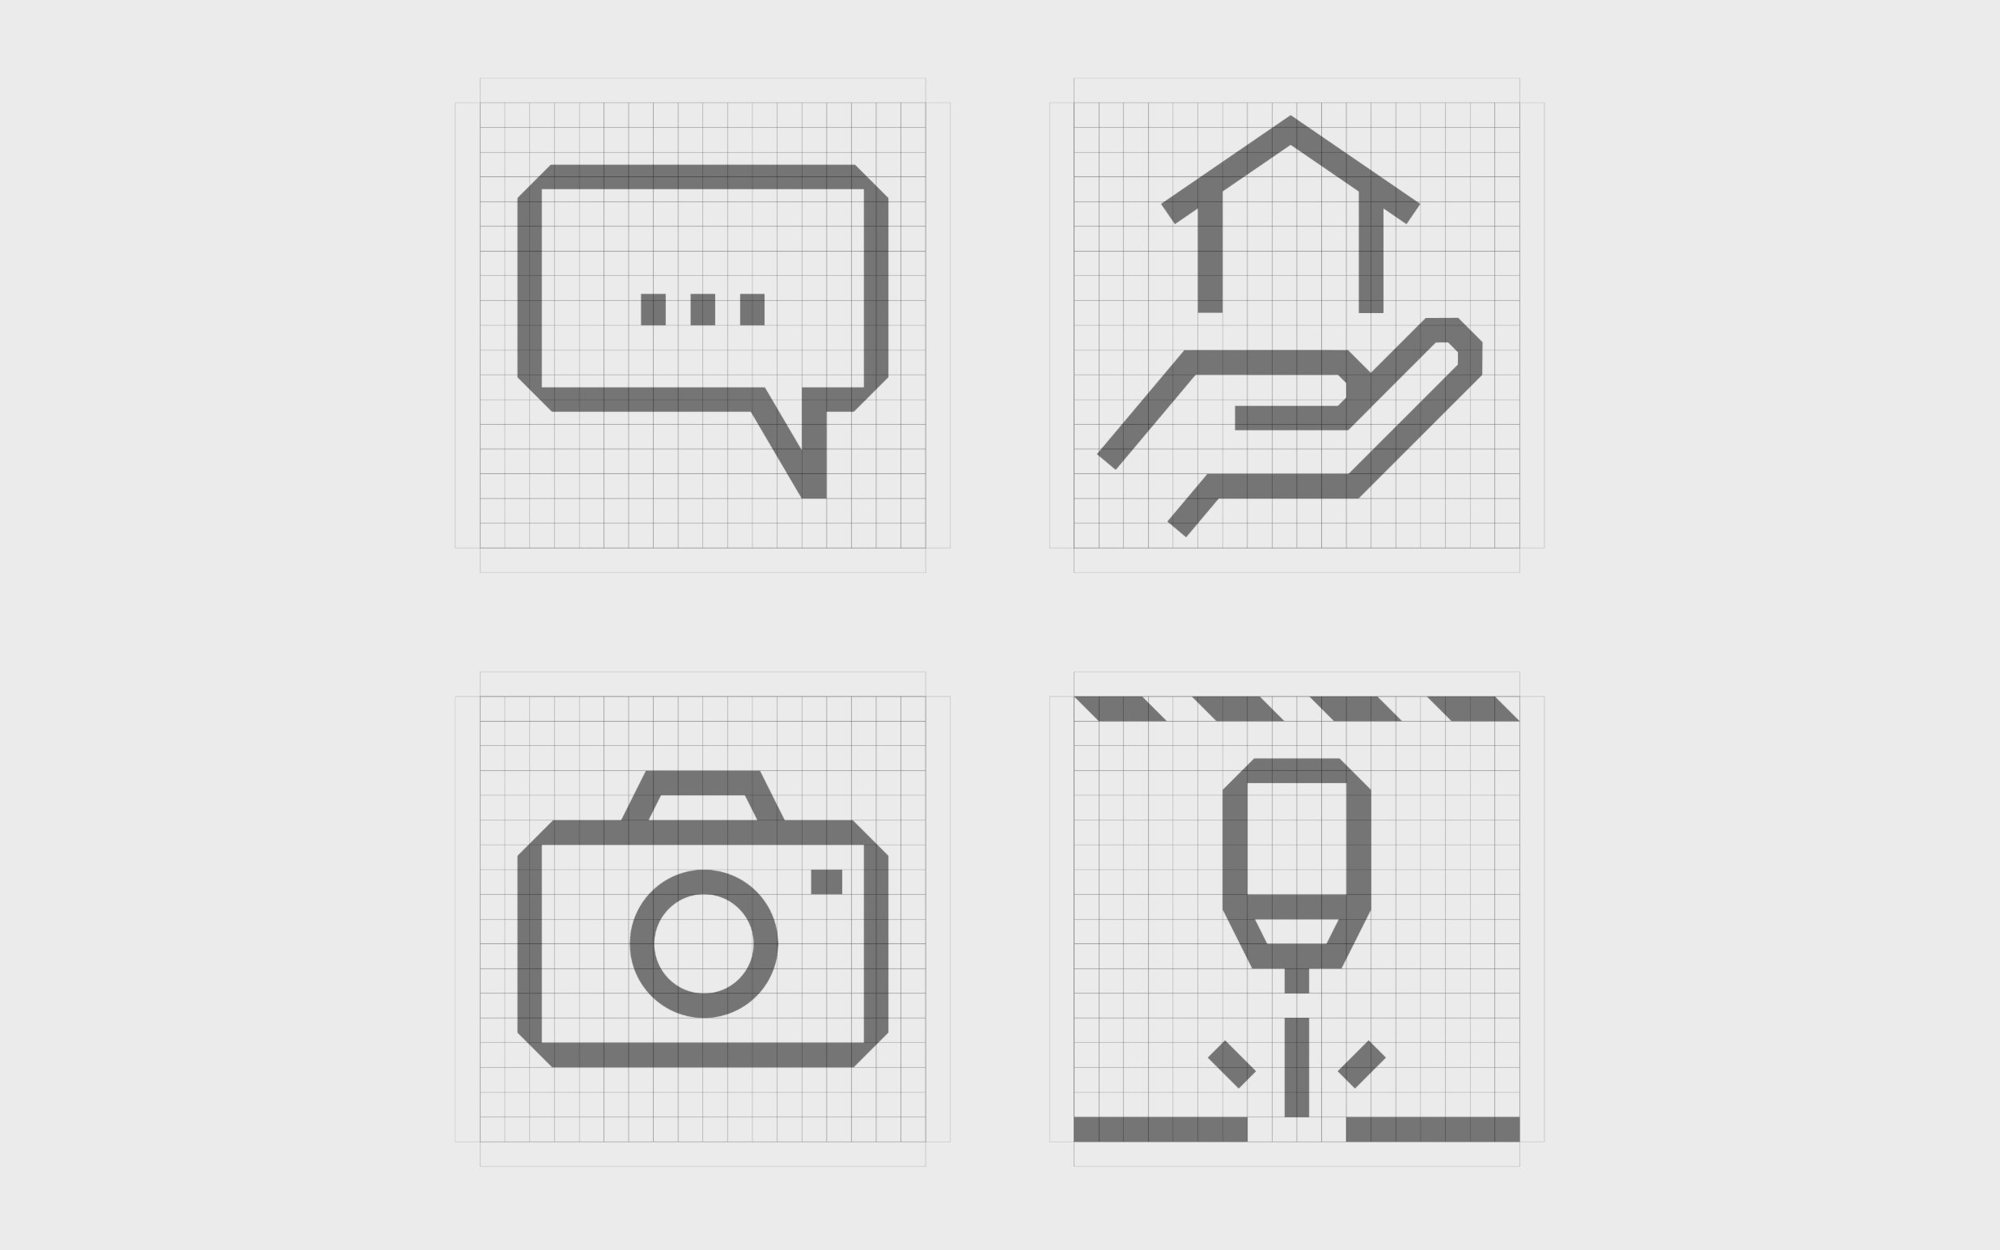
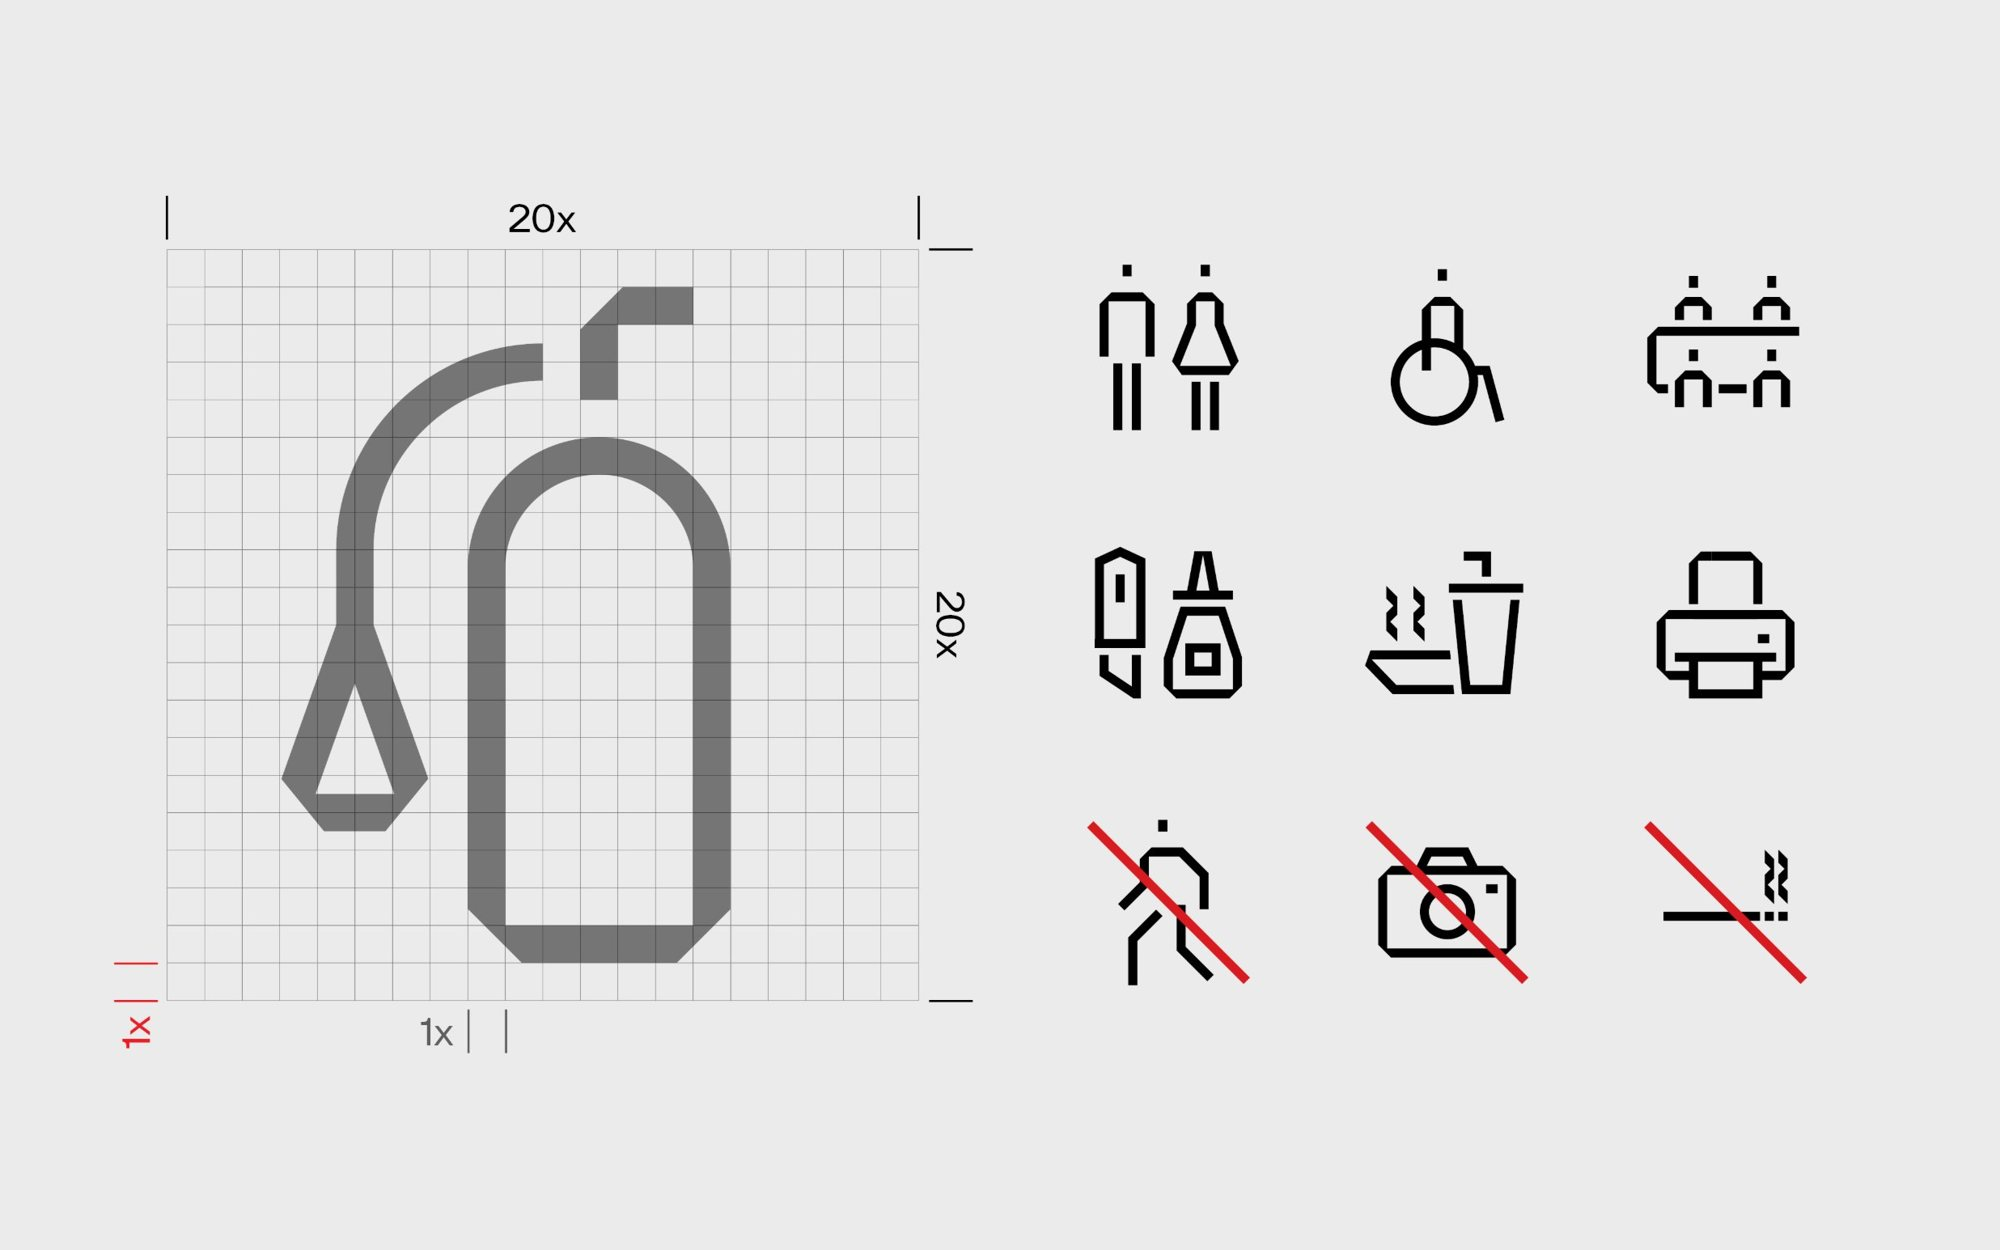
BHQ: restore grid drawing, remove extinguisher photo; add Pallet, Tyre, Iroko back
Claude-Session: https://claude.ai/code/session_01QFmfzVZUR4g7GbsELw1anY

diff --git a/index.html b/index.html
@@ -259,8 +259,8 @@ body.locked{overflow:hidden}
       <p>An iconography and signage system for BIG’s headquarters in Copenhagen, from the floor directory and door signs to the pictograms on them. One grid, one line weight: every icon belongs to the same family.</p>
       <p class="meta">Year: 2022<br>Studio: BIG</p>
     </div>
-    <div class="slides" data-count="9">
-      <button class="frame" type="button" aria-label="Enlarge BHQ Signage &amp; Wayfinding"><video src="img/bhq-signage-1.mp4" poster="img/bhq-signage-1.jpg" aria-label="BHQ Signage &amp; Wayfinding, image 1 of 9" muted loop playsinline preload="metadata"></video><img src="img/bhq-signage-2.jpg" alt="BHQ Signage &amp; Wayfinding, image 2 of 9" loading="lazy" decoding="async" hidden><img src="img/bhq-signage-3.jpg" alt="BHQ Signage &amp; Wayfinding, image 3 of 9" loading="lazy" decoding="async" hidden><img src="img/bhq-signage-4.jpg" alt="BHQ Signage &amp; Wayfinding, image 4 of 9" loading="lazy" decoding="async" hidden><img src="img/bhq-signage-5.jpg" alt="BHQ Signage &amp; Wayfinding, image 5 of 9" loading="lazy" decoding="async" hidden><img src="img/bhq-signage-6.jpg" alt="BHQ Signage &amp; Wayfinding, image 6 of 9" loading="lazy" decoding="async" hidden><img src="img/bhq-signage-7.jpg" alt="BHQ Signage &amp; Wayfinding, image 7 of 9" loading="lazy" decoding="async" hidden><img src="img/bhq-signage-8.jpg" alt="BHQ Signage &amp; Wayfinding, image 8 of 9" loading="lazy" decoding="async" hidden><img src="img/bhq-signage-9.jpg" alt="BHQ Signage &amp; Wayfinding, image 9 of 9" loading="lazy" decoding="async" hidden></button>
+    <div class="slides" data-count="8">
+      <button class="frame" type="button" aria-label="Enlarge BHQ Signage &amp; Wayfinding"><video src="img/bhq-signage-1.mp4" poster="img/bhq-signage-1.jpg" aria-label="BHQ Signage &amp; Wayfinding, image 1 of 8" muted loop playsinline preload="metadata"></video><img src="img/bhq-signage-2.jpg" alt="BHQ Signage &amp; Wayfinding, image 2 of 8" loading="lazy" decoding="async" hidden><img src="img/bhq-signage-3.jpg" alt="BHQ Signage &amp; Wayfinding, image 3 of 8" loading="lazy" decoding="async" hidden><img src="img/bhq-signage-4.jpg" alt="BHQ Signage &amp; Wayfinding, image 4 of 8" loading="lazy" decoding="async" hidden><img src="img/bhq-signage-5.jpg" alt="BHQ Signage &amp; Wayfinding, image 5 of 8" loading="lazy" decoding="async" hidden><img src="img/bhq-signage-6.jpg" alt="BHQ Signage &amp; Wayfinding, image 6 of 8" loading="lazy" decoding="async" hidden><img src="img/bhq-signage-7.jpg" alt="BHQ Signage &amp; Wayfinding, image 7 of 8" loading="lazy" decoding="async" hidden><img src="img/bhq-signage-8.jpg" alt="BHQ Signage &amp; Wayfinding, image 8 of 8" loading="lazy" decoding="async" hidden></button>
       <button class="prev" type="button" aria-label="Previous image"><svg viewBox="0 0 16 16"><path d="M15 8H1M6 3 1 8l5 5"/></svg></button>
       <button class="next" type="button" aria-label="Next image"><svg viewBox="0 0 16 16"><path d="M1 8h14M10 3l5 5-5 5"/></svg></button>
       <span class="enlarge" aria-hidden="true"><svg viewBox="0 0 16 16"><path d="M9 1h6v6M15 1 9 7M7 15H1V9M1 15l6-6"/></svg></span>    </div>
@@ -291,6 +291,21 @@ body.locked{overflow:hidden}
     </div>
     <div class="slides" data-count="13">
       <button class="frame" type="button" aria-label="Enlarge From the Arctic Edge to Ocean Bloom"><img src="img/arctic-edge-1.jpg" alt="From the Arctic Edge to Ocean Bloom, image 1 of 13" loading="lazy" decoding="async"><img src="img/arctic-edge-2.jpg" alt="From the Arctic Edge to Ocean Bloom, image 2 of 13" loading="lazy" decoding="async" hidden><img src="img/arctic-edge-3.jpg" alt="From the Arctic Edge to Ocean Bloom, image 3 of 13" loading="lazy" decoding="async" hidden><img src="img/arctic-edge-4.jpg" alt="From the Arctic Edge to Ocean Bloom, image 4 of 13" loading="lazy" decoding="async" hidden><img src="img/arctic-edge-5.jpg" alt="From the Arctic Edge to Ocean Bloom, image 5 of 13" loading="lazy" decoding="async" hidden><img src="img/arctic-edge-6.jpg" alt="From the Arctic Edge to Ocean Bloom, image 6 of 13" loading="lazy" decoding="async" hidden><img src="img/arctic-edge-7.jpg" alt="From the Arctic Edge to Ocean Bloom, image 7 of 13" loading="lazy" decoding="async" hidden><img src="img/arctic-edge-8.jpg" alt="From the Arctic Edge to Ocean Bloom, image 8 of 13" loading="lazy" decoding="async" hidden><img src="img/arctic-edge-9.jpg" alt="From the Arctic Edge to Ocean Bloom, image 9 of 13" loading="lazy" decoding="async" hidden><img src="img/arctic-edge-10.jpg" alt="From the Arctic Edge to Ocean Bloom, image 10 of 13" loading="lazy" decoding="async" hidden><img src="img/arctic-edge-11.jpg" alt="From the Arctic Edge to Ocean Bloom, image 11 of 13" loading="lazy" decoding="async" hidden><img src="img/arctic-edge-12.jpg" alt="From the Arctic Edge to Ocean Bloom, image 12 of 13" loading="lazy" decoding="async" hidden><img src="img/arctic-edge-13.jpg" alt="From the Arctic Edge to Ocean Bloom, image 13 of 13" loading="lazy" decoding="async" hidden></button>
+      <button class="prev" type="button" aria-label="Previous image"><svg viewBox="0 0 16 16"><path d="M15 8H1M6 3 1 8l5 5"/></svg></button>
+      <button class="next" type="button" aria-label="Next image"><svg viewBox="0 0 16 16"><path d="M1 8h14M10 3l5 5-5 5"/></svg></button>
+      <span class="enlarge" aria-hidden="true"><svg viewBox="0 0 16 16"><path d="M9 1h6v6M15 1 9 7M7 15H1V9M1 15l6-6"/></svg></span>    </div>
+  </article>
+  <article class="project" id="pallet-tyre-iroko" style="order:9">
+    <div class="head">
+      <h2><a href="#pallet-tyre-iroko">Pallet, Tyre, Iroko</a></h2>
+      <ul class="tags"><li>Editorial Design</li><li>Print Design</li><li>Project Documentation</li></ul>
+    </div>
+    <div class="body">
+      <p>Publication for a dwelling module in Makeni, Sierra Leone, built from freight pallets, used tyres and iroko. The original construction drawings are redrawn and set alongside the site, the climate and the assembly sequence.</p>
+      <p class="meta">Year: 2016<br>Context: Master’s thesis, San Pablo CEU</p>
+    </div>
+    <div class="slides" data-count="1">
+      <button class="frame" type="button" aria-label="Enlarge Pallet, Tyre, Iroko"><img src="img/pallet-tyre-iroko-1.jpg" alt="Pallet, Tyre, Iroko, image 1 of 1" loading="lazy" decoding="async"></button>
       <button class="prev" type="button" aria-label="Previous image"><svg viewBox="0 0 16 16"><path d="M15 8H1M6 3 1 8l5 5"/></svg></button>
       <button class="next" type="button" aria-label="Next image"><svg viewBox="0 0 16 16"><path d="M1 8h14M10 3l5 5-5 5"/></svg></button>
       <span class="enlarge" aria-hidden="true"><svg viewBox="0 0 16 16"><path d="M9 1h6v6M15 1 9 7M7 15H1V9M1 15l6-6"/></svg></span>    </div>

diff --git a/build.py b/build.py
@@ -19,7 +19,7 @@ PROJECTS = [
          year="2024", credit=("Studio", "BIG"), press=[('Dezeen', 'https://www.dezeen.com/2024/02/27/big-3-days-of-design-2024-visual-identity/'), ('IFDM', 'https://ifdm.design/2024/06/03/dedicated-to-dreamers/'), ('Interior Daily', 'https://www.interiordaily.com/article/9634851/3daysofdesign-2024-has-kicked-off-in-copenhagen/')], images=5),
     dict(slug="bhq-signage", title="BHQ Signage & Wayfinding", tags=["Signage & Wayfinding", "Icon Design"],
          text="An iconography and signage system for BIG’s headquarters in Copenhagen, from the floor directory and door signs to the pictograms on them. One grid, one line weight: every icon belongs to the same family.",
-         year="2022", credit=("Studio", "BIG"), images=9, videos=[1]),
+         year="2022", credit=("Studio", "BIG"), images=8, videos=[1]),
     dict(slug="formgiving-exhibition", title="Formgiving Exhibition", tags=["Visual Identity", "Print Design", "Exhibition Design"],
          text="Graphic design for BIG’s largest exhibition to date at the Danish Architecture Center in Copenhagen, including posters, flyers, and maps. The exhibition explored the evolution of life from the Big Bang to possible futures through a chronological journey.",
          year="2019", credit=("Studio", "BIG"), press=[('designboom', 'https://www.designboom.com/architecture/bjarke-ingels-group-formgiving-exhibition-copenhagen-06-12-2019/'), ('DAC', 'https://dac.dk/en/exhibitions/big-presents-formgiving'), ('Scandinavian Design', 'https://scandinaviandesign.com/explore-bigs-world-of-form-and-color-danish-architecture-centre/')], images=7),
@@ -35,6 +35,9 @@ PROJECTS = [
     dict(slug="park-residences", title="Park Residences", tags=["Editorial Design", "Print Design"],
          text="Sales dossier for Park Residences, two timber residential buildings by Proforma Studio set in an apricot orchard in Goght, near Garni, Armenia. The dossier moves from the orchard concept through the site and building to each apartment type, with the architects’ drawings redrawn as one consistent set.",
          year="2026", credit=("Context", "Proforma Studio"), images=8),
+    dict(slug="pallet-tyre-iroko", title="Pallet, Tyre, Iroko", tags=["Editorial Design", "Print Design", "Project Documentation"],
+         text="Publication for a dwelling module in Makeni, Sierra Leone, built from freight pallets, used tyres and iroko. The original construction drawings are redrawn and set alongside the site, the climate and the assembly sequence.",
+         year="2016", credit=("Context", "Master’s thesis, San Pablo CEU"), images=1),
 ]
 
 INFO = [
